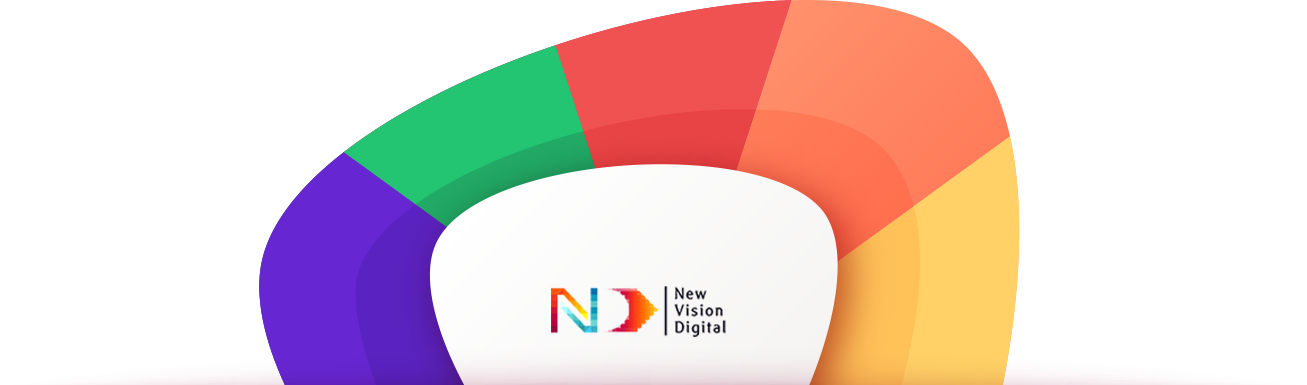
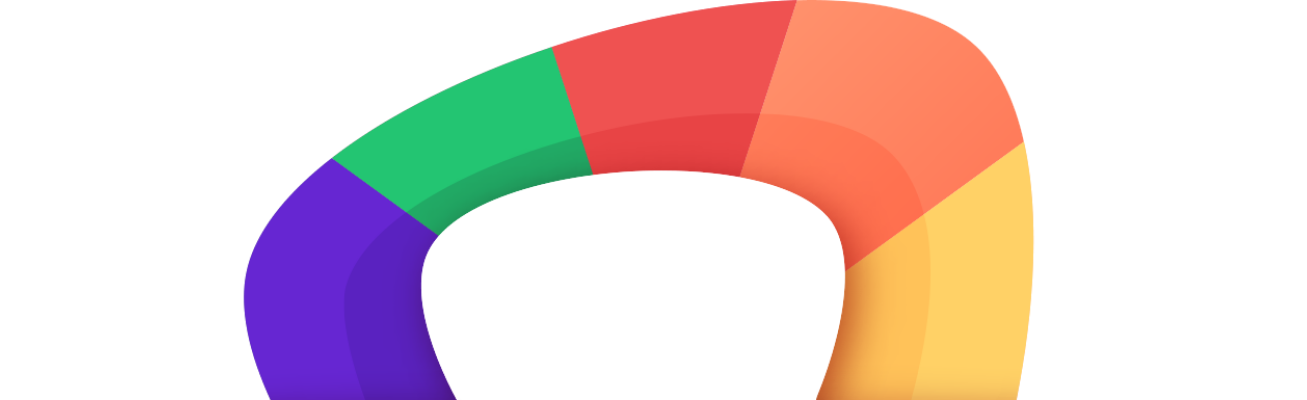
Add changes

diff --git a/components/RainbowSteps.tsx b/components/RainbowSteps.tsx
@@ -64,7 +64,7 @@ export default function RainbowSteps() {
   ];
 
   return (
-    <section className="py-20 flex flex-col items-center relative overflow-visible">
+    <section className="py-20 flex flex-col items-center relative overflow-visible bg-[var(--color1)]">
       <div className="relative w-[780px] max-w-full mx-auto">
         {/* MAIN IMAGE */}
         <Image src={rainbowImg} alt="Rainbow Arc" className="w-full" />
@@ -94,8 +94,12 @@ export default function RainbowSteps() {
                     style={item.popupPos} // 🎯 popup exact placement
                   >
                     <Icon size={38} className="text-blue-600 drop-shadow-lg" />
-                    <h4 className="font-bold text-lg mt-2">{item.title}</h4>
-                    <p className="text-sm leading-relaxed">{item.desc}</p>
+                    <h4 className="font-bold text-lg mt-2 text-white">
+                      {item.title}
+                    </h4>
+                    <p className="text-sm leading-relaxed text-white">
+                      {item.desc}
+                    </p>
                   </div>
                 )}
               </div>

diff --git a/src/app/page.tsx b/src/app/page.tsx
@@ -33,7 +33,7 @@ export default function Home() {
       {/* <HowWeWork /> */}
       <Blogs />
       <FAQ />
-      {/* <RainbowSteps /> */}
+      <RainbowSteps />
       {/* <LocationsSection /> */}
       <Footer />
     </div>
